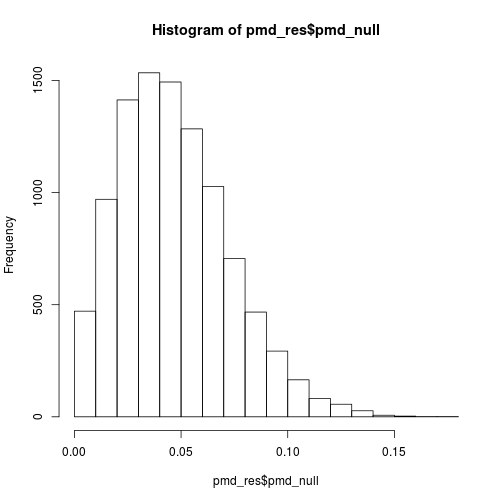
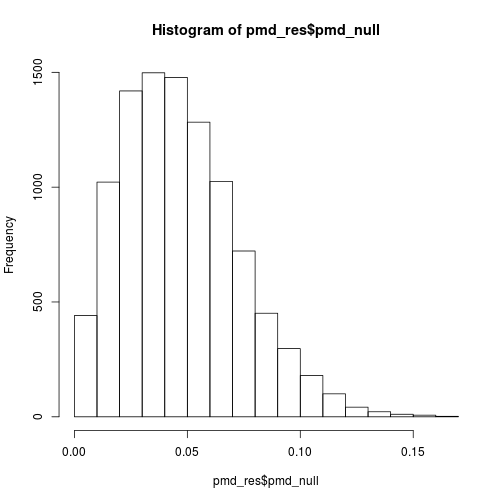
trying to get things to pass packaging checks

diff --git a/README.md b/README.md
@@ -64,7 +64,9 @@ hist(pmd_res$pmd_null)
 ```
 
 ![plot of chunk hist_of_null](figure/hist_of_null-1.png)
+
 Using this null background, an empirical p-value is calculated:
+
 
 
 ```r
@@ -72,7 +74,7 @@ pmd_res$p.value
 ```
 
 ```
-## [1] 0.997
+## [1] 0.9959
 ```
 
 ## comparing two different 'batch correction' or normalization approaches
@@ -124,5 +126,7 @@ print(pmd_res$p.value)
 
 The PMD in this case is .6666. That's because 2/3rds of the cells come from clusters that are shared across batches, while the remaining 1/3rd is from batch 3 that was completely different from the others. The P-value is 0 (or in this case just more significant that the 10000 null simulations run in which there was no pattern by batch). 
 
-Note that you could also run these assays on each batch pairwise if you want to something like a pairwise post-hoc.
+Note that you could also run these assays on each batch pairwise if you want to do something like a pairwise post-hoc.
+
+
 
